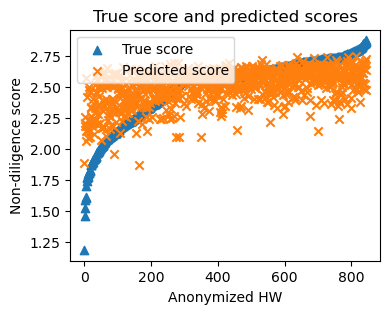
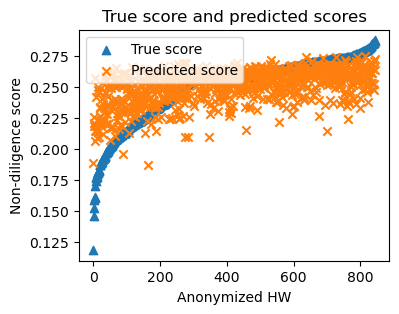
averaging scores

diff --git a/src/predictor.py b/src/predictor.py
@@ -21,12 +21,14 @@ class Predictor:
         print("Initializing the predictor")
         self.cnfg = cnfg
         self.df_scores = pd.read_csv("rules/scores.csv")
-        self.data = self.calc_datapoints()
+        self.data, self.hw_data, self.hw_ben_data = self.calc_datapoints()
 
     def calc_datapoints(self):
         gdf = self.df_scores.groupby("health_worker_id").agg(
             num_data=pd.NamedAgg(column='scores', aggfunc=lambda x: len(list(x))),
-            scores_list=pd.NamedAgg(column='scores', aggfunc=lambda x: list(x))
+            scores_list=pd.NamedAgg(column='scores', aggfunc=lambda x: list(x)),
+            hw_scores_list=pd.NamedAgg(column='health_worker_dependant_scores', aggfunc=lambda x: list(x)),
+            hw_ben_scores_list=pd.NamedAgg(column='beneficiery_and_health_worker_dependant_scores', aggfunc=lambda x: list(x))
         )
 
         print(gdf['num_data'].value_counts())
@@ -36,28 +38,38 @@ class Predictor:
         print(df['num_data'].value_counts())
 
         scores_list = list(df['scores_list'])
+        hw_scores_list = list(df['hw_scores_list'])
+        hw_ben_scores_list = list(df['hw_ben_scores_list'])
         print(len(scores_list))
         print(len(scores_list[0]))
 
         data = []
+        hw_data = []
+        hw_ben_data = []
         for i in range(len(scores_list)):
             d = scores_list[i]
+            hwd = hw_scores_list[i]
+            hwbend = hw_ben_scores_list[i]
             l = len(d)
             if l == 4:
                 data.append(d)
+                hw_data.append(hwd)
+                hw_ben_data.append(hwbend)
             elif l > 4:
                 for j in range(l - data_points_threshold + 1):
                     data.append(d[j:j + data_points_threshold])
+                    hw_data.append(hwd[j:j + data_points_threshold])
+                    hw_ben_data.append(hwbend[j:j + data_points_threshold])
 
         print("Number of data points", len(data))
 
-        return np.array(data)
+        return np.array(data), np.array(hw_data), np.array(hw_ben_data)
 
-    def simple_predictor(self):
+    def simple_predictor(self, data):
 
         # #split dataset in train and testing set
-        x = self.data[:,:-1]
-        y = self.data[:,-1]
+        x = data[:,:-1]
+        y = data[:,-1]
         X_train,X_test,Y_train,Y_test=train_test_split(x,y,test_size=0.2,random_state=0)
 
         print("Total", len(X_train) + len(X_test))

diff --git a/src/__main__.py b/src/__main__.py
@@ -14,7 +14,7 @@ if __name__ == '__main__':
     processInput = ProcessInputData()
 
     #####
-    processInput.read_format_raw_data()
+    # processInput.read_format_raw_data()
     # calculaterules = CalculateRules(processInput.df_time_steps_list, processInput.time_steps)
     # df = calculaterules.calRules()
     #####
@@ -36,9 +36,8 @@ if __name__ == '__main__':
     norm_scores = sc.get_simple_norm(fraud_prob)
 
     predictor_obj = Predictor(processInput.cnfg)
-    lin_model = predictor_obj.simple_predictor()
-    # lstm_model = predictor_obj.lstmModel()
-    # predictor_obj.lstm_fit_pred(lstm_model)
+    lin_model = predictor_obj.simple_predictor(predictor_obj.data)
+
 
     lstm_mdl = LSTM_mdl(predictor_obj.data)
 

diff --git a/src/scores.py b/src/scores.py
@@ -53,7 +53,7 @@ class Scores:
         return fraud_prob
 
     def get_simple_norm(self, prob):
-        norms = np.linalg.norm(prob, axis=1, ord=2)
+        norms = np.linalg.norm(prob, axis=1, ord=2)/10
 
         nsq = np.power(prob,2)
         hw_score = np.zeros(len(prob))
@@ -64,8 +64,8 @@ class Scores:
             else:
                 hw_ben_score = hw_ben_score + nsq[:,i]
 
-        hw_score = np.power(hw_score,0.5)
-        hw_ben_score = np.power(hw_ben_score, 0.5)
+        hw_score = np.power(hw_score,0.5)/2
+        hw_ben_score = np.power(hw_ben_score, 0.5)/8
 
         self.df['scores'] = norms
         self.df['health_worker_dependant_scores'] = hw_score
